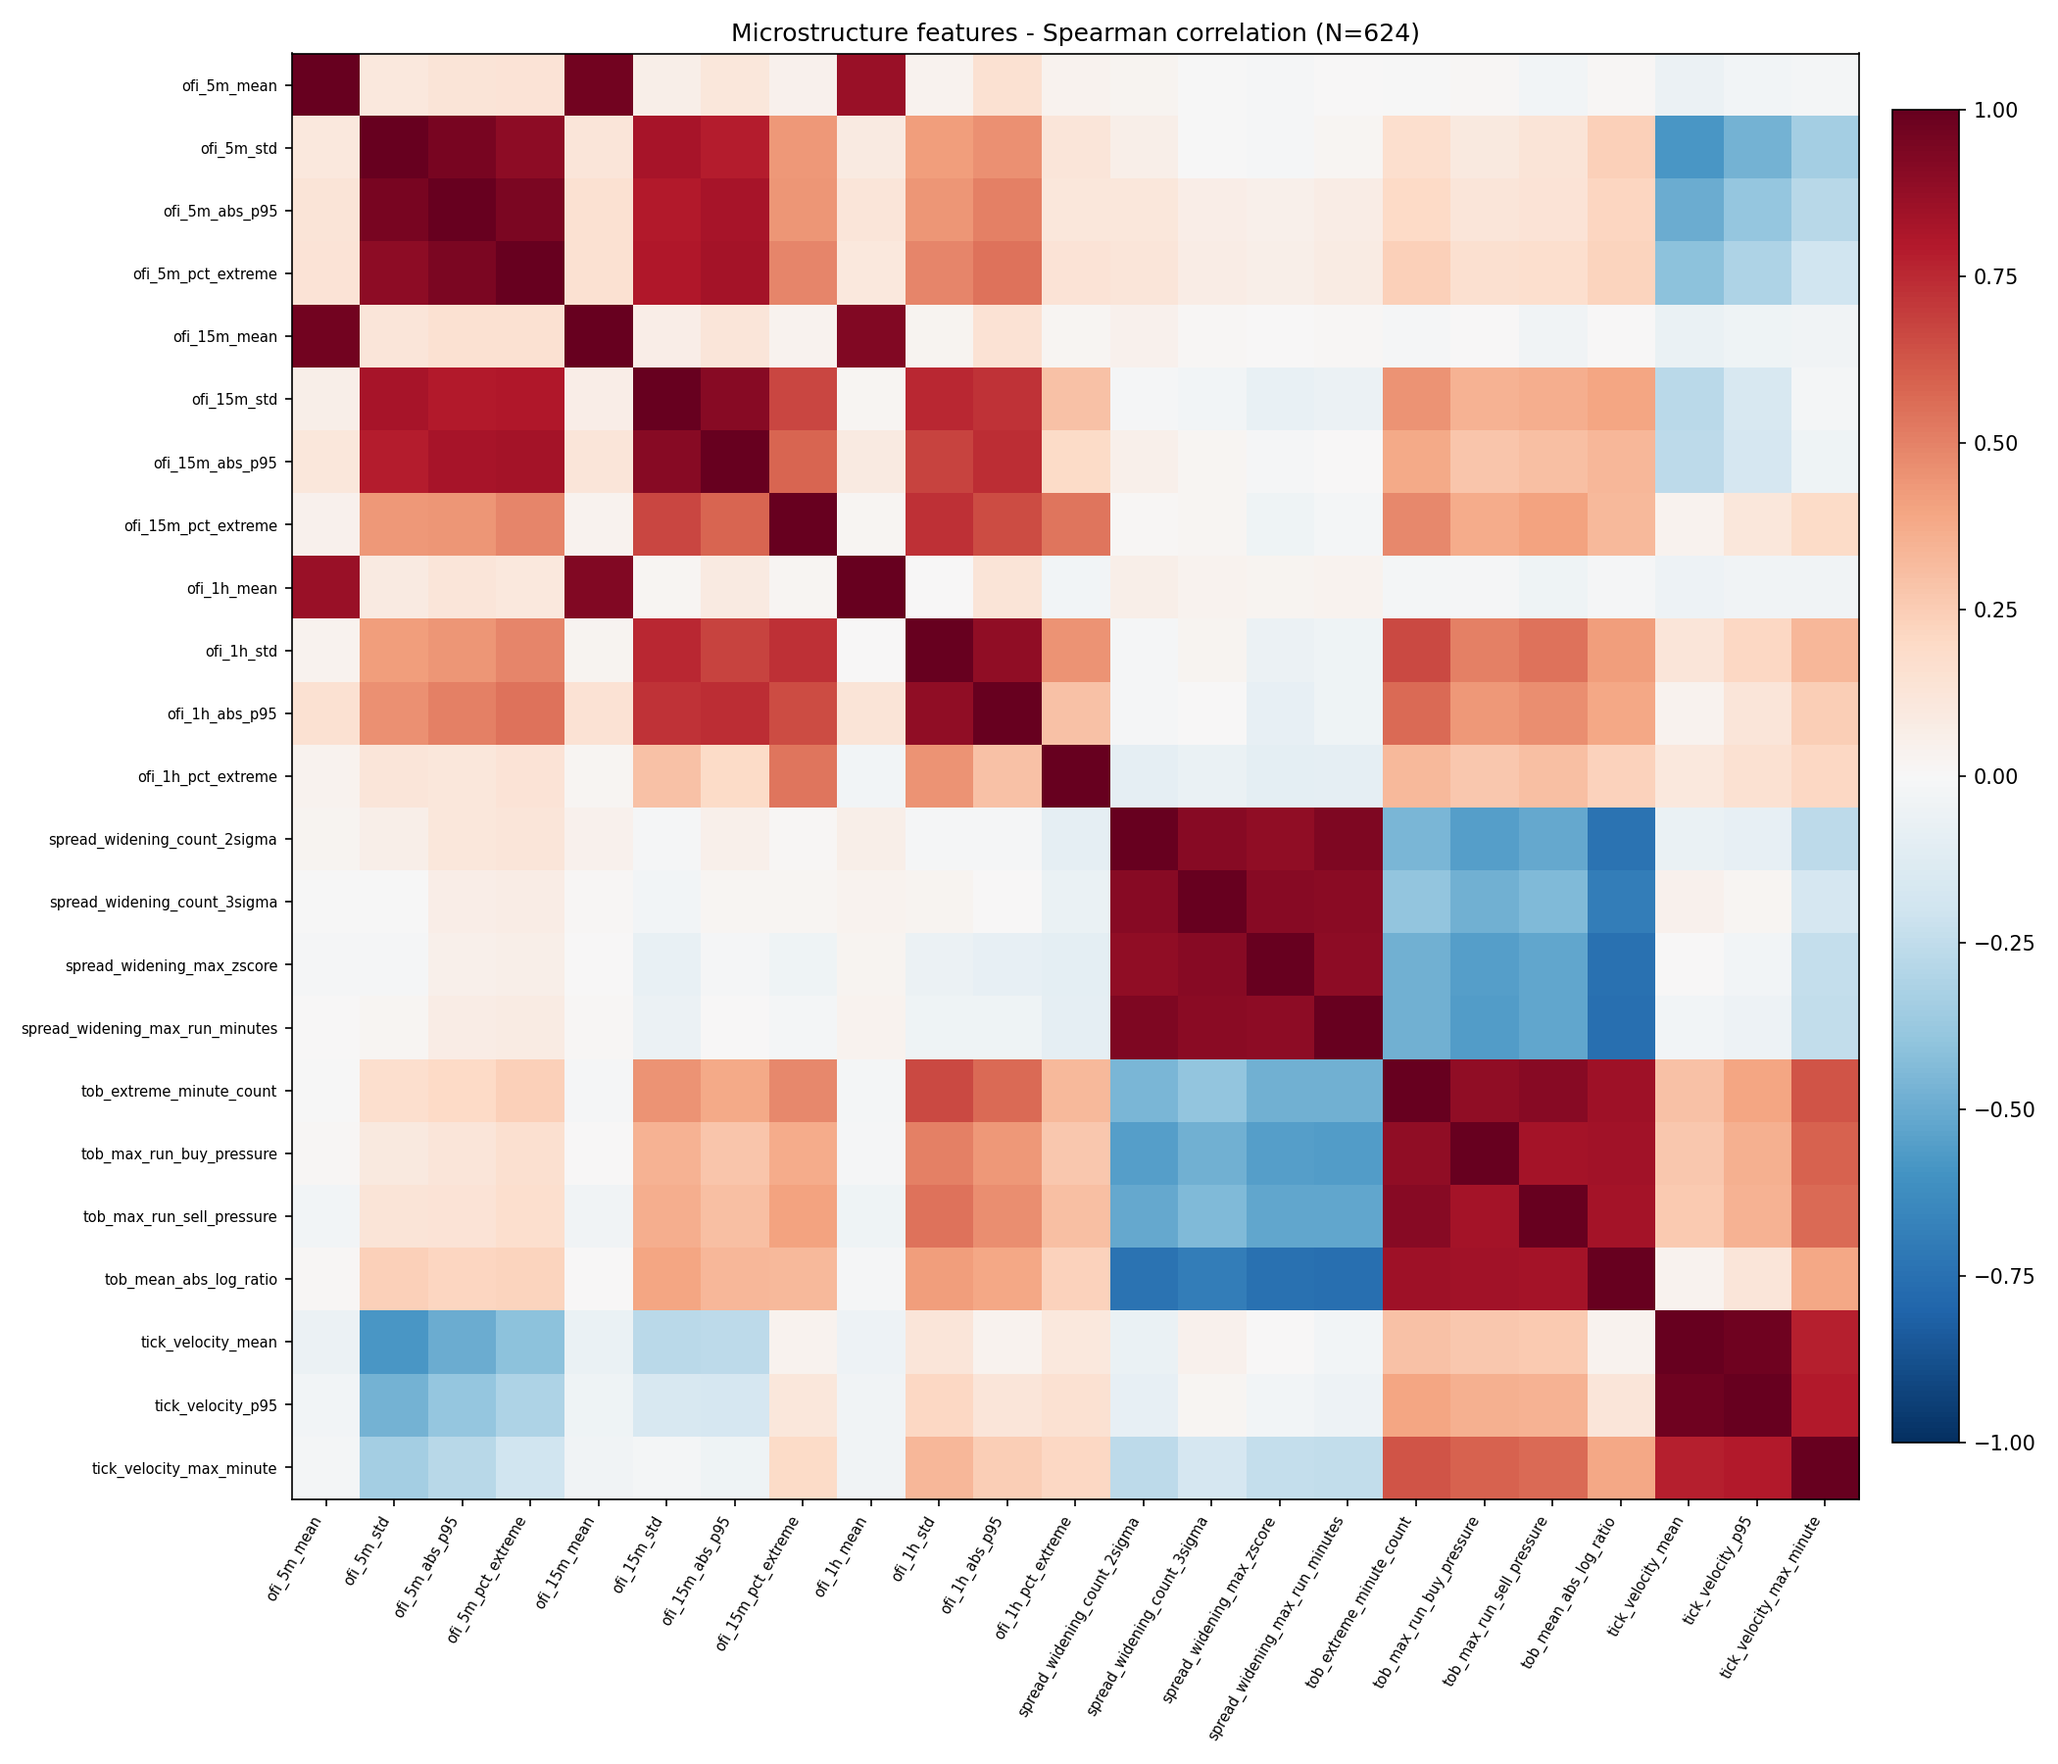
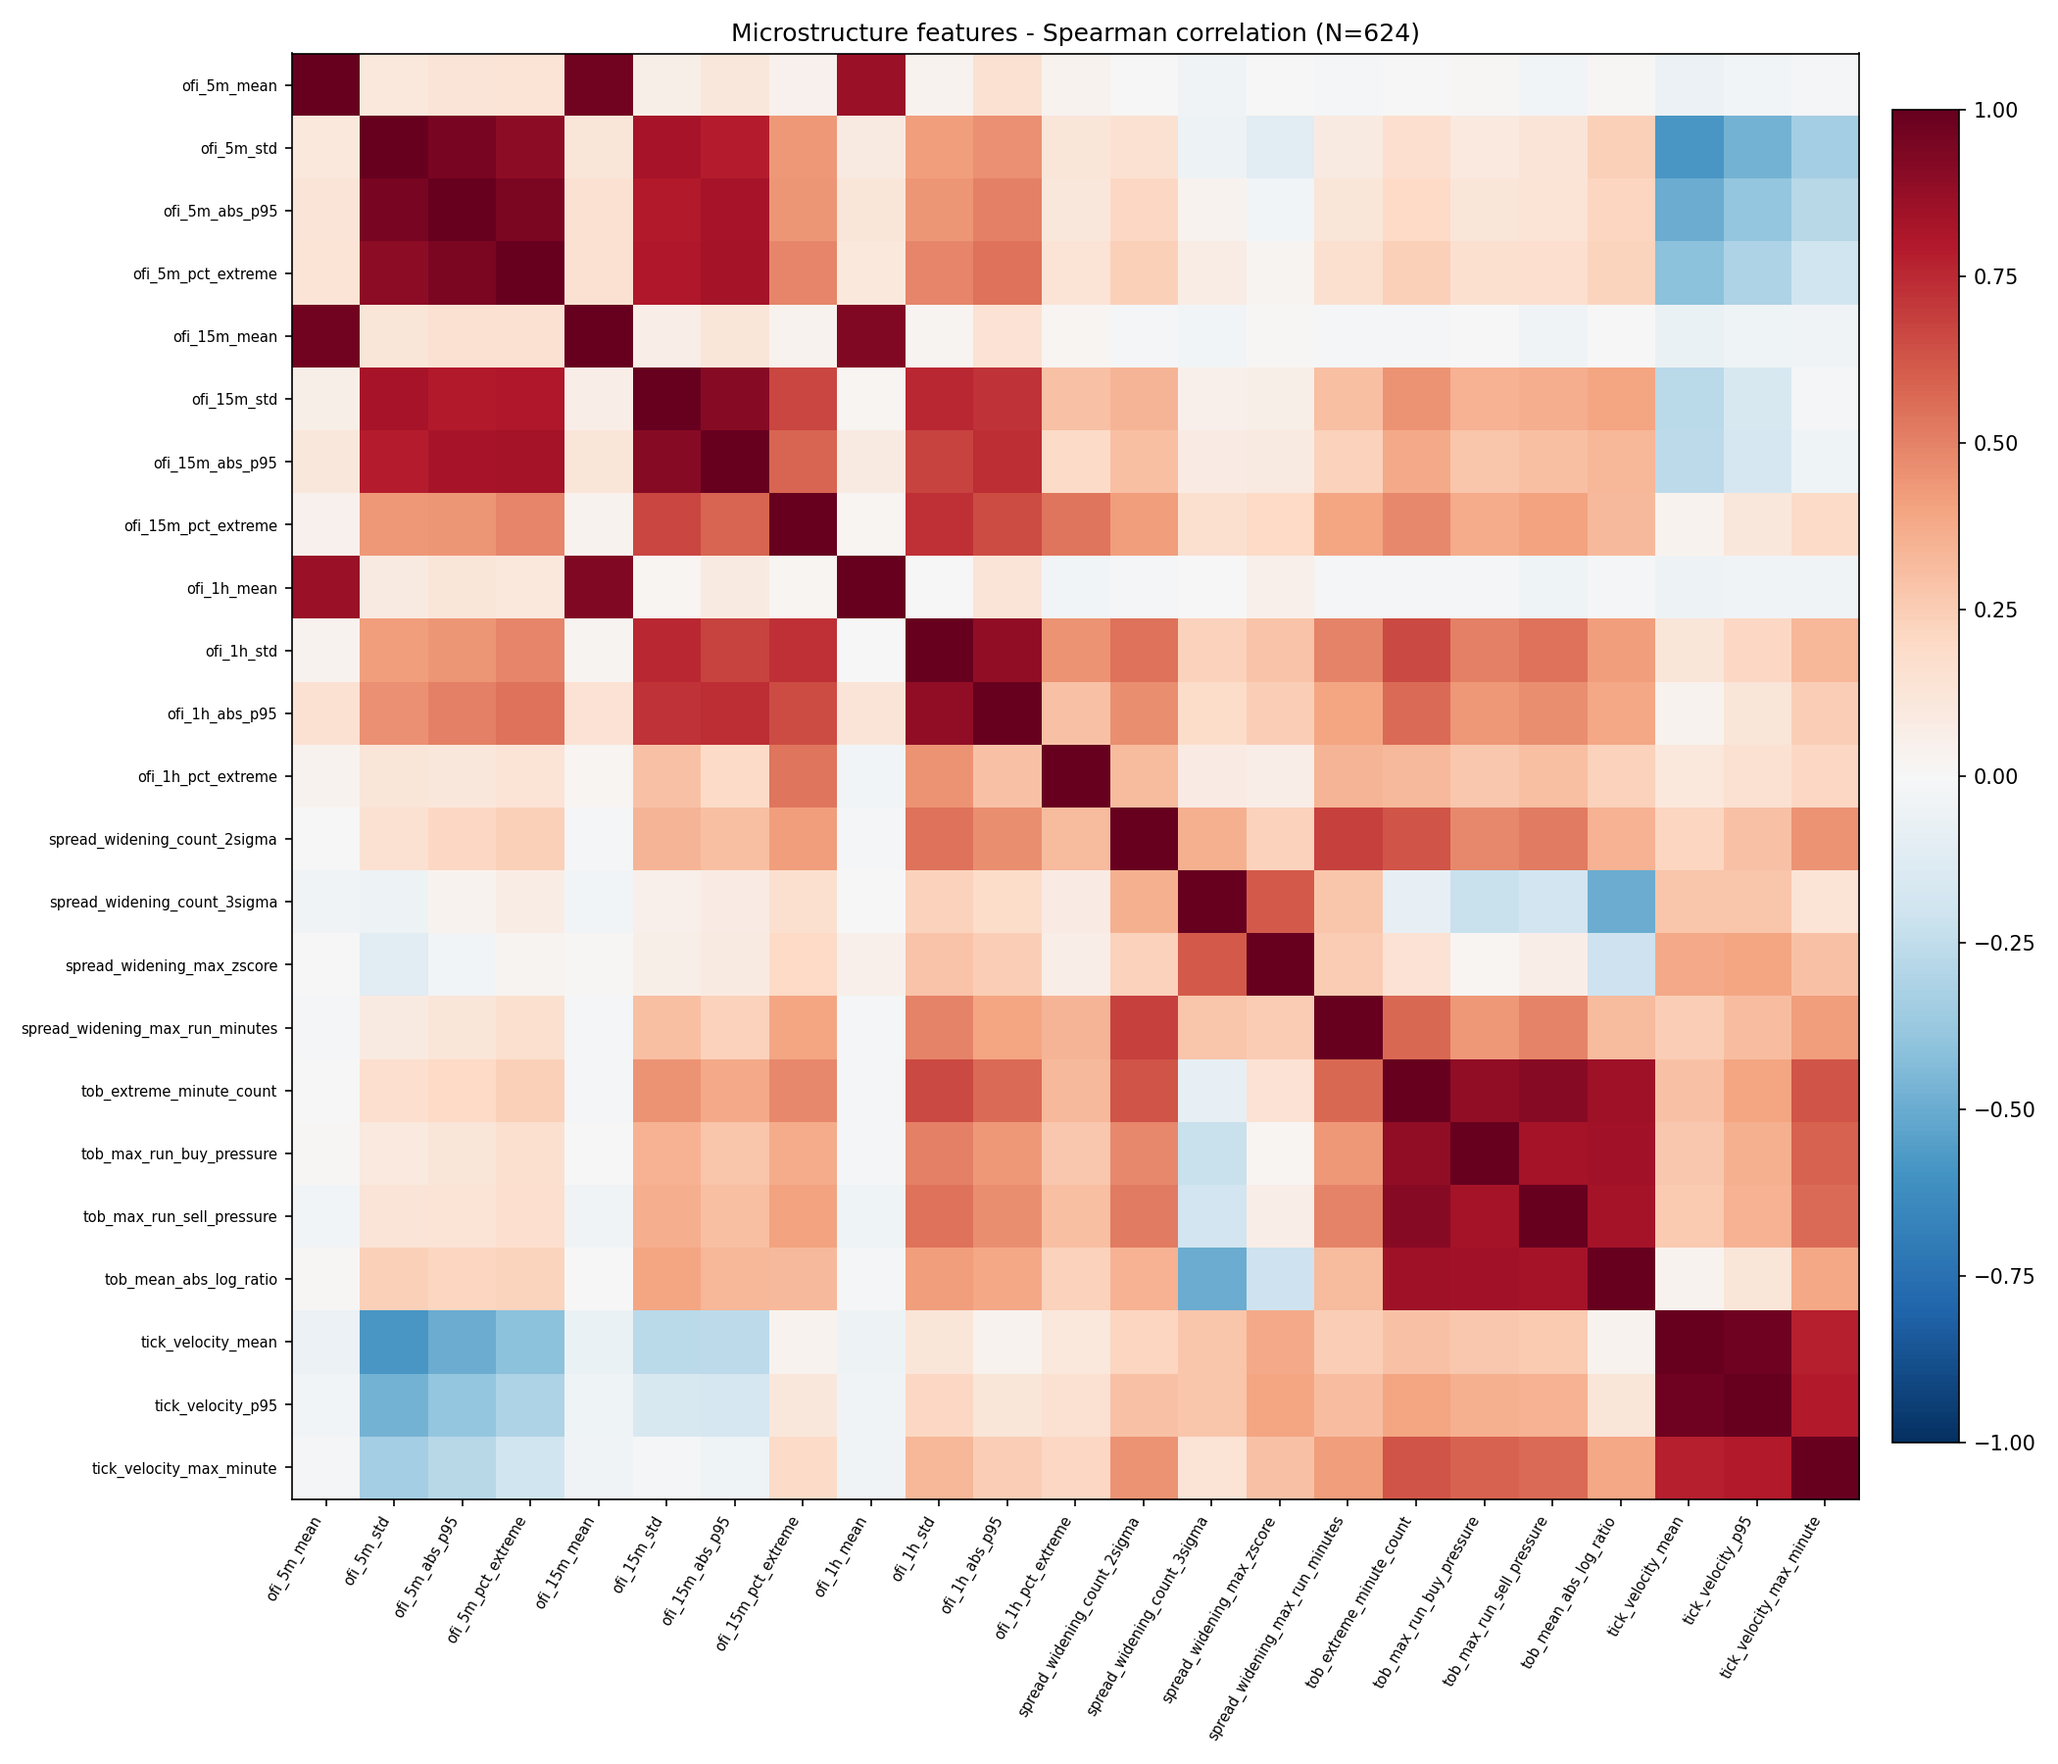
docs(ml): Phase 4c1 retest — MAX spread aggregator results
Re-ran the microstructure feature backfill (~2h 19m) and Phase 4d EDA
after the 3ec1cdc aggregator fix. Results:

- ES spread-widening zero-rate: 80.1% → 3.5% (−76.6pp). The fix
  worked structurally; MAX surfaces widening events the median
  collapsed behind the $0.25 tick-size floor.
- NQ zero-rate: unchanged at 0.0%.
- NQ validated OFI signal unchanged (ρ=0.313, p_bonf<0.001, n=312
  for ofi_1h_mean; full trio survives Bonferroni).
- No spread-widening feature surfaces as Bonferroni-significant
  on either symbol despite the zero-rate fix. Spread information
  is now visible but doesn't translate to daily-return signal.

Interpretation: same "ES too arbitraged" hypothesis applies to
spread widening as to OFI. The fix eliminates a data-quality bug
and makes the feature analytically sound, but doesn't produce a
new validated signal. Daily aggregation may also be diluting
intraday widening events worth revisiting in a future phase.

Findings doc updated with the retest section and the Known
Limitations entry marked resolved. Regenerated plots and JSON.

Changed region(s): [[0.3095, 0.1244, 0.9286, 0.8711], [0.2167, 0.4356, 0.2786, 0.4978]]

diff --git a/ml/docs/MICROSTRUCTURE-OFI-FINDING.md b/ml/docs/MICROSTRUCTURE-OFI-FINDING.md
@@ -36,13 +36,13 @@ Claude's prompt, confirm the signal exists.
 
 ## Key result
 
-| Symbol | Best feature | Spearman ρ | Raw p | Bonferroni p (n=46) | Verdict |
-|---|---|---|---|---|---|
-| **NQ** | `ofi_1h_mean` | **+0.313** | 0.000 | **0.000** | **Significant** |
-| **NQ** | `ofi_15m_mean` | +0.278 | 0.000 | 0.000 | Significant |
-| **NQ** | `ofi_5m_mean` | +0.235 | 0.000 | 0.001 | Significant |
-| ES | `ofi_1h_std` | +0.141 | 0.014 | 0.624 | Not significant |
-| ES | `ofi_1h_mean` | +0.131 | 0.022 | 1.000 | Not significant |
+| Symbol | Best feature   | Spearman ρ | Raw p | Bonferroni p (n=46) | Verdict         |
+| ------ | -------------- | ---------- | ----- | ------------------- | --------------- |
+| **NQ** | `ofi_1h_mean`  | **+0.313** | 0.000 | **0.000**           | **Significant** |
+| **NQ** | `ofi_15m_mean` | +0.278     | 0.000 | 0.000               | Significant     |
+| **NQ** | `ofi_5m_mean`  | +0.235     | 0.000 | 0.001               | Significant     |
+| ES     | `ofi_1h_std`   | +0.141     | 0.014 | 0.624               | Not significant |
+| ES     | `ofi_1h_mean`  | +0.131     | 0.022 | 1.000               | Not significant |
 
 **NQ**: three OFI features survive Bonferroni correction at p < 0.001
 with Spearman ρ strictly monotone in window length (5m < 15m < 1h).
@@ -75,7 +75,7 @@ Two reinforcing explanations, both consistent with the data:
   divergence warning ("SPX setup looks bullish, NQ tape says otherwise").
 - **Do NOT wire ES microstructure as a directional predictor.** Phase 2b
   already computes ES OFI/spread/TOB and surfaces them in the analyze
-  context. Keep them as *tape-flavor* context (Claude can read them as
+  context. Keep them as _tape-flavor_ context (Claude can read them as
   qualitative signal), but treat quantitative claims like "positive ES
   OFI implies positive ES return" as unsupported.
 - **Do NOT train a classifier on ES microstructure features.** They
@@ -86,12 +86,12 @@ Two reinforcing explanations, both consistent with the data:
 The feature matrix has 11 pairs with |ρ| > 0.9, meaning ML should pick
 one representative per family rather than training on all 23 features:
 
-| Family | Representative | Runner-up(s) |
-|---|---|---|
-| OFI (windows) | `ofi_1h_mean` | ρ≈0.92-0.96 with 5m/15m variants |
-| Tick velocity | `tick_velocity_p95` | ρ=0.97 with `mean` |
-| Spread widening | `spread_widening_max_zscore` | ρ>0.9 with count variants |
-| TOB pressure | `tob_mean_abs_log_ratio` | moderate correlation with run-length features |
+| Family          | Representative               | Runner-up(s)                                  |
+| --------------- | ---------------------------- | --------------------------------------------- |
+| OFI (windows)   | `ofi_1h_mean`                | ρ≈0.92-0.96 with 5m/15m variants              |
+| Tick velocity   | `tick_velocity_p95`          | ρ=0.97 with `mean`                            |
+| Spread widening | `spread_widening_max_zscore` | ρ>0.9 with count variants                     |
+| TOB pressure    | `tob_mean_abs_log_ratio`     | moderate correlation with run-length features |
 
 ## Known limitations
 
@@ -101,11 +101,10 @@ one representative per family rather than training on all 23 features:
   market. Effect size may differ in volatile or trending-down regimes.
   Phase 4d's `is_degraded` filter excluded 6 degraded days × 2 symbols
   (12 rows) from Q5/Q6.
-- **Spread widening on ES:** 80.1% zero-rate (spread pinned at $0.25
-  tick-size floor). Current `median(ask-bid)` aggregator is the wrong
-  statistic for a minimum-tick-width product; `max(ask-bid)` or
-  `percentile_cont(0.95)` would surface widening events the median
-  collapses. Tracked as Phase 4c follow-up.
+- **Spread widening on ES:** ~~80.1% zero-rate~~ **RESOLVED in Phase 4c1
+  (2026-04-20).** Aggregator switched from `median(ask-bid)` to
+  `MAX(ask-bid)`; zero-rate dropped ES 80.1%→3.5%, NQ stayed 0.0%.
+  See "Phase 4c1 retest" section below.
 - **`ret_5d` approximation:** forward window is calendar-days-based
   (`[t+5, t+9]` first-available close on same contract) rather than
   trading-days-based. Coarse but bias-free; documented in code.
@@ -146,9 +145,74 @@ Estimated effort: ~8 hours across 4 files + tests.
   makes SPX 0DTE less liquid and flow returns to ES), reopen the ES
   decision.
 
+## Phase 4c1 retest (2026-04-20)
+
+After switching the per-minute spread aggregator from
+`percentile_cont(0.5)` (median) to `MAX(ask - bid)` at commit
+`3ec1cdc`, the 1-year backfill was re-run and Phase 4d EDA re-executed
+against the fresh feature matrix. Same 624 rows, same date range.
+
+### Zero-rate change (Q3)
+
+| Symbol | Pre-fix (median) | Post-fix (max) | Delta     |
+| ------ | ---------------- | -------------- | --------- |
+| ES     | 80.1%            | **3.5%**       | −76.6 pp  |
+| NQ     | 0.0%             | 0.0%           | no change |
+
+The ES zero-rate collapse confirms the Phase 4c hypothesis: median
+was hiding widening events behind the $0.25 tick-size floor. Under
+MAX, any single widened quote in a minute registers, so 96.5% of ES
+days now show at least one widening event.
+
+### Q5 signal impact (this is the load-bearing result)
+
+**NQ signals unchanged.** The validated OFI trio survives Bonferroni
+at identical ρ values to Phase 4d:
+
+- `ofi_1h_mean` ρ=+0.313, p_bonf<0.001
+- `ofi_15m_mean` ρ=+0.278, p_bonf<0.001
+- `ofi_5m_mean` ρ=+0.235, p_bonf=0.001
+
+**Spread widening family still does not surface Bonferroni-significant
+signal on either symbol.** ES top-7 is OFI-dominated (top
+`ofi_1h_std` ρ=0.141, p_bonf=0.624); no spread feature appears.
+NQ top-7 is OFI + tick-velocity; no spread feature appears.
+
+### Interpretation
+
+The fix was worth shipping — it eliminates a data-quality bug and
+makes the feature analytically sound. But the fix did NOT produce a
+new validated signal. Two reasonable readings:
+
+1. **ES is still too arbitraged.** The "ES OFI carries no signal
+   because SPX 0DTE soaks up directional flow" hypothesis from the
+   original Phase 4d finding applies to spread widening too. The
+   spread information is real (we can now see it), but it gets
+   arbitraged before it predicts end-of-day return.
+2. **Daily aggregation dilutes the signal.** MAX-based widening
+   events may carry intraday predictive value that a daily
+   aggregation hides. If a future phase backtests intraday signals,
+   this feature may still earn its keep.
+
+### What changed in the operational stack
+
+- `ml/src/features/microstructure.py` — aggregator swap (commit `3ec1cdc`)
+- `ml/data/features/microstructure_daily.parquet` — regenerated 2026-04-20
+- `ml/findings_microstructure.json` — regenerated 2026-04-20
+- `ml/plots/microstructure_q{1..6}_*.png` — regenerated 2026-04-20
+
+### What did NOT change
+
+- Analyze context wiring (Phase 5a) — still surfaces NQ 1h OFI live.
+  No new feature promoted.
+- Cached prompt interpretation rules (Phase 5a) — still reference
+  the unchanged NQ OFI validation (ρ=0.313, p_bonf<0.001, n=312).
+- ES-microstructure-is-tape-flavor-only guidance — still holds.
+
 ## References
 
 - Phase 4a converter spec: `docs/superpowers/specs/phase3a-tbbo-convert-2026-04-18.md`
 - Phase 4c feature spec: `docs/superpowers/specs/phase4c-microstructure-features-2026-04-18.md`
+- Phase 4c1 aggregator fix: commit `3ec1cdc` (2026-04-19)
 - Phase 4d EDA spec: `docs/superpowers/specs/phase4d-microstructure-eda-2026-04-19.md`
 - Max-leverage roadmap: `docs/superpowers/specs/max-leverage-databento-uw-2026-04-18.md`
